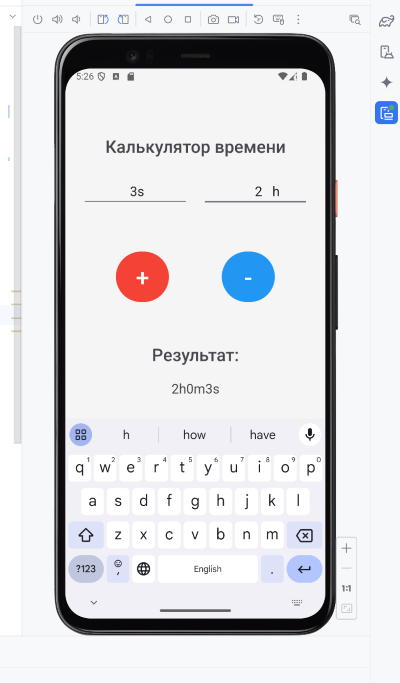
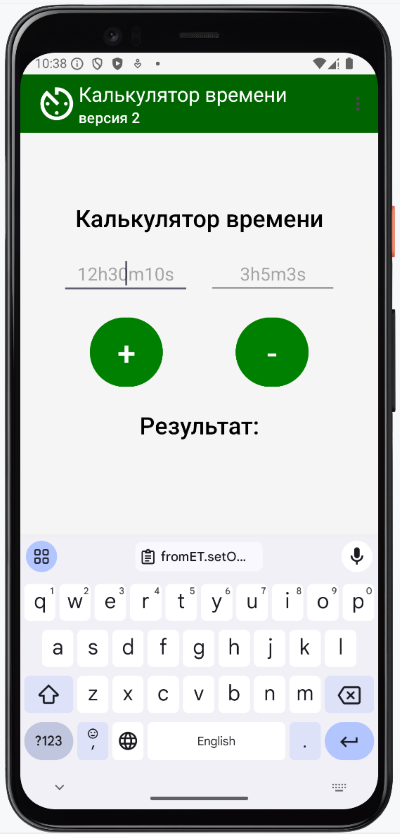
Домашнее задание по теме "Toolbar Menu Toast"

diff --git a/app/src/main/java/com/example/calculatoroftime/MainActivity.kt b/app/src/main/java/com/example/calculatoroftime/MainActivity.kt
@@ -1,19 +1,28 @@
 package com.example.calculatoroftime
 
+import android.content.res.Resources
+import android.graphics.Color
 import android.os.Bundle
+import android.view.Menu
+import android.view.MenuItem
 import android.view.View
 import android.widget.Button
 import android.widget.EditText
 import android.widget.TextView
+import android.widget.Toast
 import androidx.activity.enableEdgeToEdge
 import androidx.appcompat.app.AppCompatActivity
+import androidx.appcompat.widget.Toolbar
+import androidx.core.graphics.toColor
 import androidx.core.view.ViewCompat
 import androidx.core.view.WindowInsetsCompat
 
 class MainActivity : AppCompatActivity(), View.OnClickListener {
 
-    private lateinit var fromET : EditText
-    private lateinit var toET : EditText
+    private lateinit var toolbarMain: Toolbar
+
+    private lateinit var firstET: EditText
+    private lateinit var secondET: EditText
 
     private lateinit var plusBTN: Button
     private lateinit var minusBTN: Button
@@ -30,8 +39,14 @@ class MainActivity : AppCompatActivity(), View.OnClickListener {
             insets
         }
 
-        fromET = findViewById(R.id.fromET)
-        toET = findViewById(R.id.toET)
+        toolbarMain = findViewById(R.id.toolbarMain)
+        setSupportActionBar(toolbarMain)
+        title = "Калькулятор времени"
+        toolbarMain.subtitle = "версия 2"
+        toolbarMain.setLogo(R.drawable.ic_calcoftime)
+
+        firstET = findViewById(R.id.firstET)
+        secondET = findViewById(R.id.secondET)
 
         resultTV = findViewById(R.id.resultTV)
 
@@ -43,22 +58,60 @@ class MainActivity : AppCompatActivity(), View.OnClickListener {
 
     }
 
-    override fun onClick(view: View) {
-
-        val timeFrom = TimeCalculator(fromET.text.toString())
-        val timeTo = TimeCalculator(toET.text.toString())
-
-        try {
-            resultTV.text = when (view.id) {
-                R.id.plusBTN -> timeFrom.operation(timeTo, timeTo.sum)
-                R.id.minusBTN -> timeFrom.operation(timeTo, timeTo.dif)
-                else -> "Ошибка вычисления"
-            }
-        } catch (e: Exception) {
-            resultTV.text = "Что-то пошло не так"
-        }
-
+    override fun onCreateOptionsMenu(menu: Menu?): Boolean {
+        menuInflater.inflate(R.menu.menu_main, menu)
+        return true
     }
 
+    override fun onOptionsItemSelected(item: MenuItem): Boolean {
+        when (item.itemId) {
+            R.id.resetMainMenu -> {
+                firstET.text.clear()
+                secondET.text.clear()
+                resultTV.text = "Результат:"
+                Toast.makeText(
+                    applicationContext,
+                    "Данные очищены",
+                    Toast.LENGTH_LONG
+                ).show()
+                resultTV.setTextColor(resources.getColor(R.color.black))
+            }
 
+            R.id.exitMainMenu -> {
+                Toast.makeText(
+                    applicationContext,
+                    "Приложение закрыто",
+                    Toast.LENGTH_LONG
+                ).show()
+                finish()
+            }
+        }
+
+
+        return super.onOptionsItemSelected(item)
+    }
+
+    override fun onClick(view: View) {
+
+        val firstTime = TimeCalculator(firstET.text.toString())
+        val secondTime = TimeCalculator(secondET.text.toString())
+
+        resultTV.text = when (view.id) {
+            R.id.plusBTN -> "Результат: " + firstTime.operation(secondTime, secondTime.sum)
+            R.id.minusBTN -> "Результат: " + firstTime.operation(secondTime, secondTime.dif)
+            else -> "Ошибка вычисления"
+        }
+
+        if (resultTV.text != "Ошибка вычисления") {
+            resultTV.setTextColor(resources.getColor(R.color.resultColored))
+        }
+
+        Toast.makeText(
+            applicationContext,
+            resultTV.text,
+            Toast.LENGTH_LONG
+        ).show()
+
+
+    }
 }

diff --git a/README.md b/README.md
@@ -24,7 +24,42 @@
 
 ### Скриншоты
 
+<details>
+<summary>Скриншоты здесь</summary>
+
 ![](md/1.png)![](md/2.png)
 ![](md/3.png)![](md/4.png)
 ![](md/5.png)![](md/6.png)
 ![](md/7.png)![](md/8.png)
+
+</details>
+<br/>
+
+# Домашнее задание по теме "Toolbar Menu Toast"
+
+В приложение **«Калькулятор времени»** (смотри домашнее задание прошлого урока):
+
+1. Добавить **Toolbar** с логотипом, заголовком и подзаголовком. Цвет Toolbar: **#006400**
+
+2. Изменить цвет кнопок приложения: **#008000**
+
+3. Добавить **menu** удаления полей ввода и вывода, описать логику работы (аналогично занятию).
+
+4.  Добавить всплывающее сообщение **Toast** с результатом при выполнении функций сложения и вычитания времени, например, **«Результат: 23m45s»**.
+
+5. Добавить всплывающее сообщение при очистке полей ввода и вывода - «Данные очищены», при закрытии приложения – **«Приложение закрыто»**.
+
+6. **\*\*\*** Изменить текст вывода информации на **#08B000** при выводе результата, при очистке и по умолчанию (при запуске) – черный.
+
+### Скриншоты по домашнему заднию
+
+<details>
+<summary>Скриншоты здесь</summary>
+
+![](md/9.png)![](md/10.png)
+![](md/11.png)![](md/12.png)
+![](md/13.png)![](md/14.png)
+![](md/15.png)![](md/16.png)
+
+</details>
+<br/>
